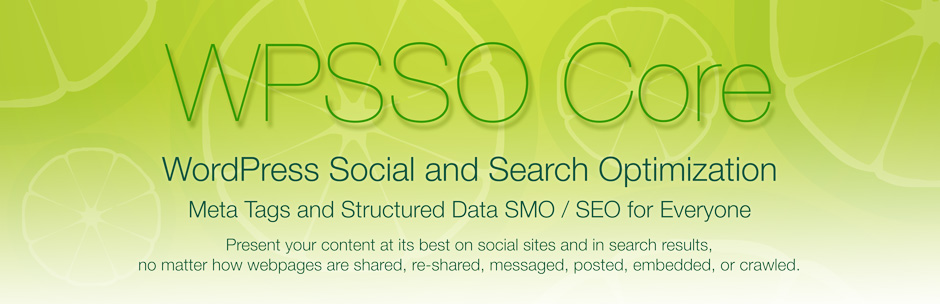
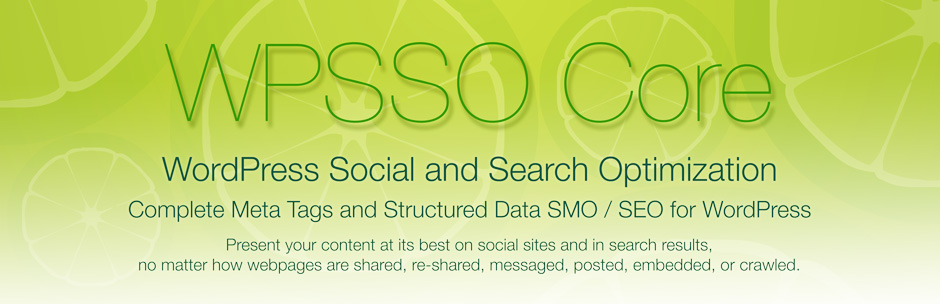
non-essential support files (documentation and assets)

Changed region(s): [[0.1234, 0.6513, 0.8638, 0.7401]]

diff --git a/index.html b/index.html
@@ -25,7 +25,7 @@
         </ul>
       </header>
       <section>
-<h1>WPSSO Core</h1><h3>Meta Tags and Structured Data SMO / SEO for Everyone</h3>
+<h1>WPSSO Core</h1><h3>Complete Meta Tags and Structured Data SMO / SEO</h3>
 
 <table>
 <tr><th align="right" valign="top" nowrap>Plugin Name</th><td>WPSSO Core</td></tr>
